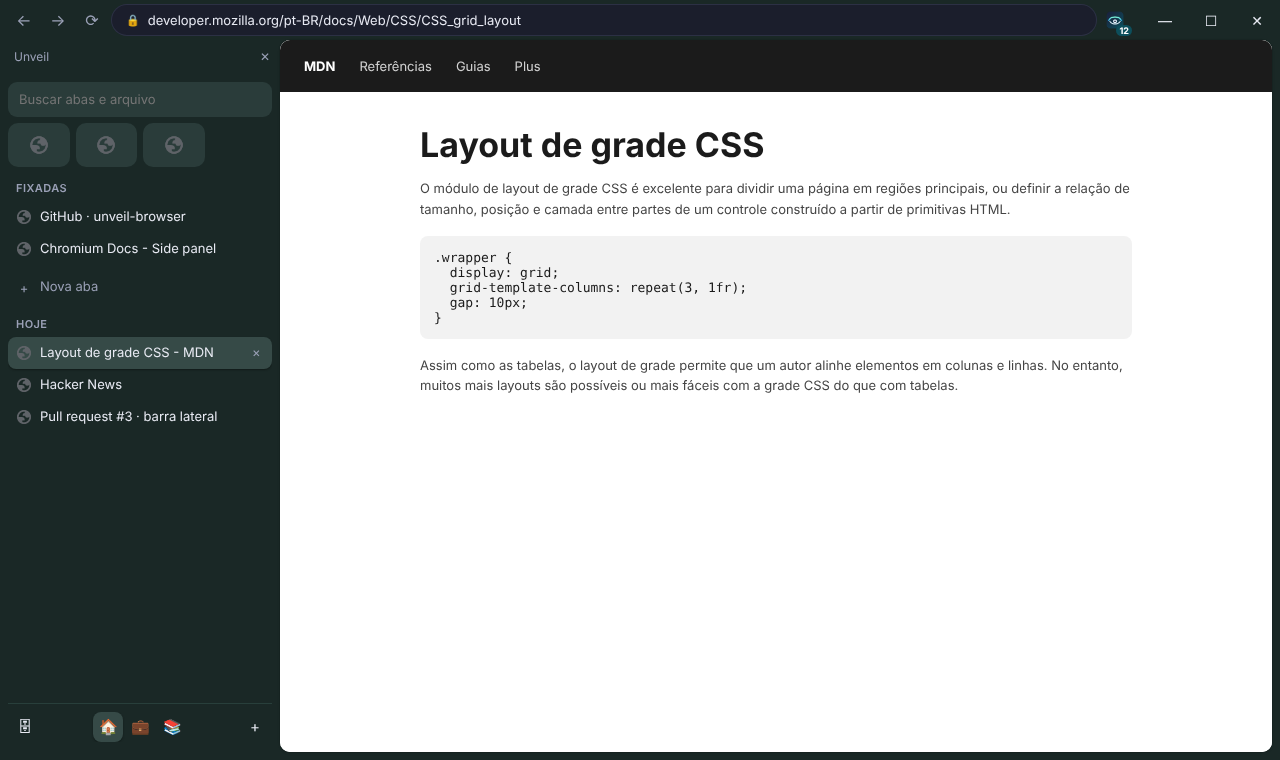
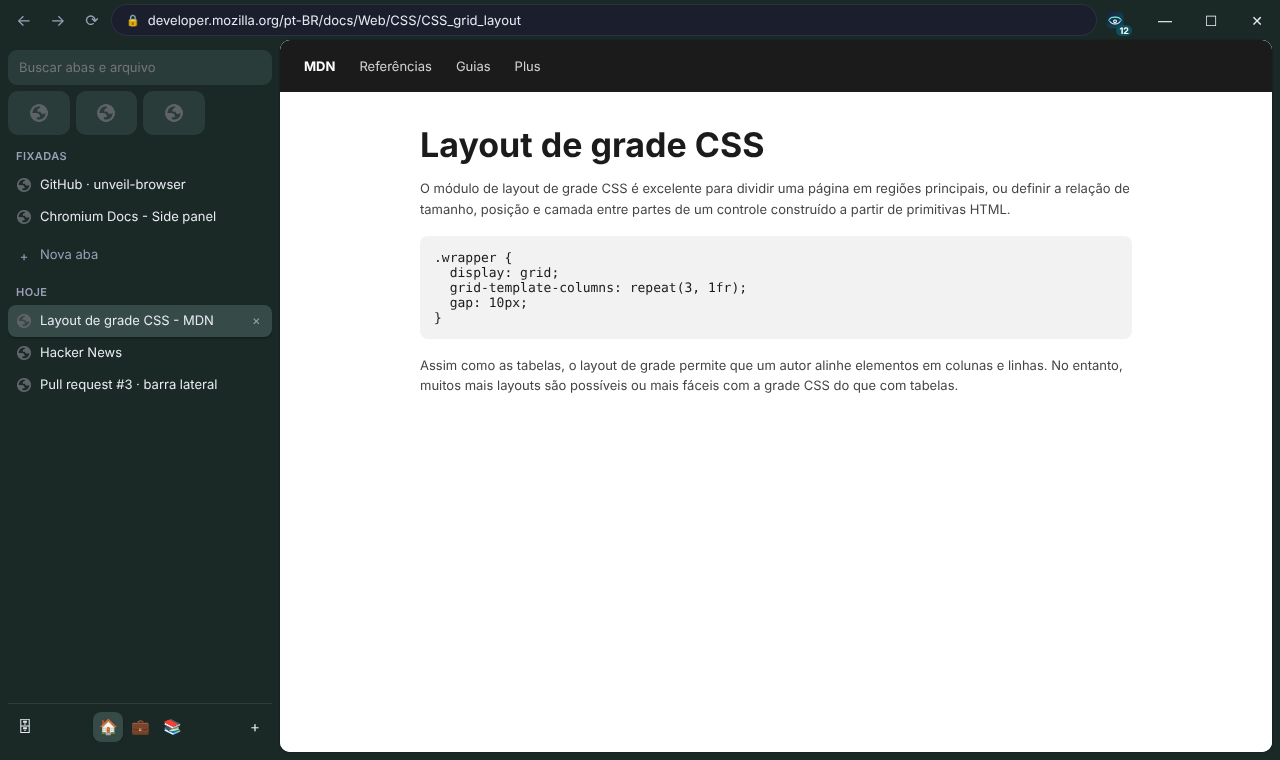
feat(chromium): barra lateral sem o cabeçalho do painel lateral
Patch 0010: a entrada do painel lateral da shell é criada com
set_should_show_header(false), então a barra ocupa o painel inteiro, sem o
título "Unveil" e sem os botões de fixar e fechar do Chromium. Só a shell é
afetada; outras extensões continuam com o cabeçalho.

README e a prévia da janela atualizados.

Claude-Session: https://claude.ai/code/session_01NUcJB3h1EYqNH6qh62N1CY

diff --git a/README.md b/README.md
@@ -4,7 +4,7 @@ Um navegador leve e sem rastreamento para Windows, feito sobre um fork do Chromi
 
 <p align="center"><img src="docs/screenshots/window-light.png" alt="A janela do Unveil: barra de endereço na linha dos botões da janela, barra lateral à esquerda com favoritos, fixadas, Hoje e Spaces" width="840"></p>
 
-<p align="center"><sub>Prévia: a barra lateral é a real; a linha de cima simula o que os patches 0007 e 0008 fazem na janela.</sub></p>
+<p align="center"><sub>Prévia: a barra lateral é a real; a linha de cima simula o que os patches 0007, 0008 e 0010 fazem na janela.</sub></p>
 
 ## Por quê
 
@@ -170,6 +170,7 @@ Os patches ficam pequenos e com um assunto cada, para que atualizar o Chromium c
 | 0007 | Janelas normais sem a faixa de abas: as abas ficam na barra lateral (`--unveil-show-tab-strip` traz a faixa de volta) |
 | 0008 | O painel lateral fica à esquerda por padrão |
 | 0009 | A shell abre a barra lateral em cada janela nova sem precisar de um clique |
+| 0010 | A barra ocupa o painel lateral inteiro, sem o cabeçalho do Chromium (título, fixar e fechar) |
 
 Para "Chromium" virar "Unveil" nos textos, o [`rebrand.mjs`](chromium/scripts/rebrand.mjs) precisa recalcular o ID de cada mensagem. As traduções (`.xtb`) são indexadas por uma impressão digital do texto em inglês, então o script calcula o ID novo do mesmo jeito que o GRIT do Chromium e move cada tradução para ele. Os testes conferem os IDs com valores calculados pelo próprio GRIT.
 
@@ -183,7 +184,7 @@ Para "Chromium" virar "Unveil" nos textos, o [`rebrand.mjs`](chromium/scripts/re
 ## Ainda não tem
 
 - Peek, split view e cookies separados por Space, como no Flecha.
-- A barra usa o painel lateral do Chromium, que tem um cabeçalho com título e um botão de fechar. Se você fechar a barra, ela volta pelo menu do painel lateral ou numa janela nova. No Flecha, a janela inteira é desenhada pela shell.
+- A barra vive no painel lateral do Chromium (sem o cabeçalho, patch 0010), então ainda dá para redimensioná-la, mas não para recolhê-la num atalho. No Flecha, a janela inteira é desenhada pela shell.
 - Atualização automática: por enquanto, baixe a release nova.
 - Ocultar elementos de anúncio na página (filtros cosméticos `##`). Hoje o bloqueio é só de rede, então às vezes sobra um espaço vazio.
 - Builds para ARM64.
